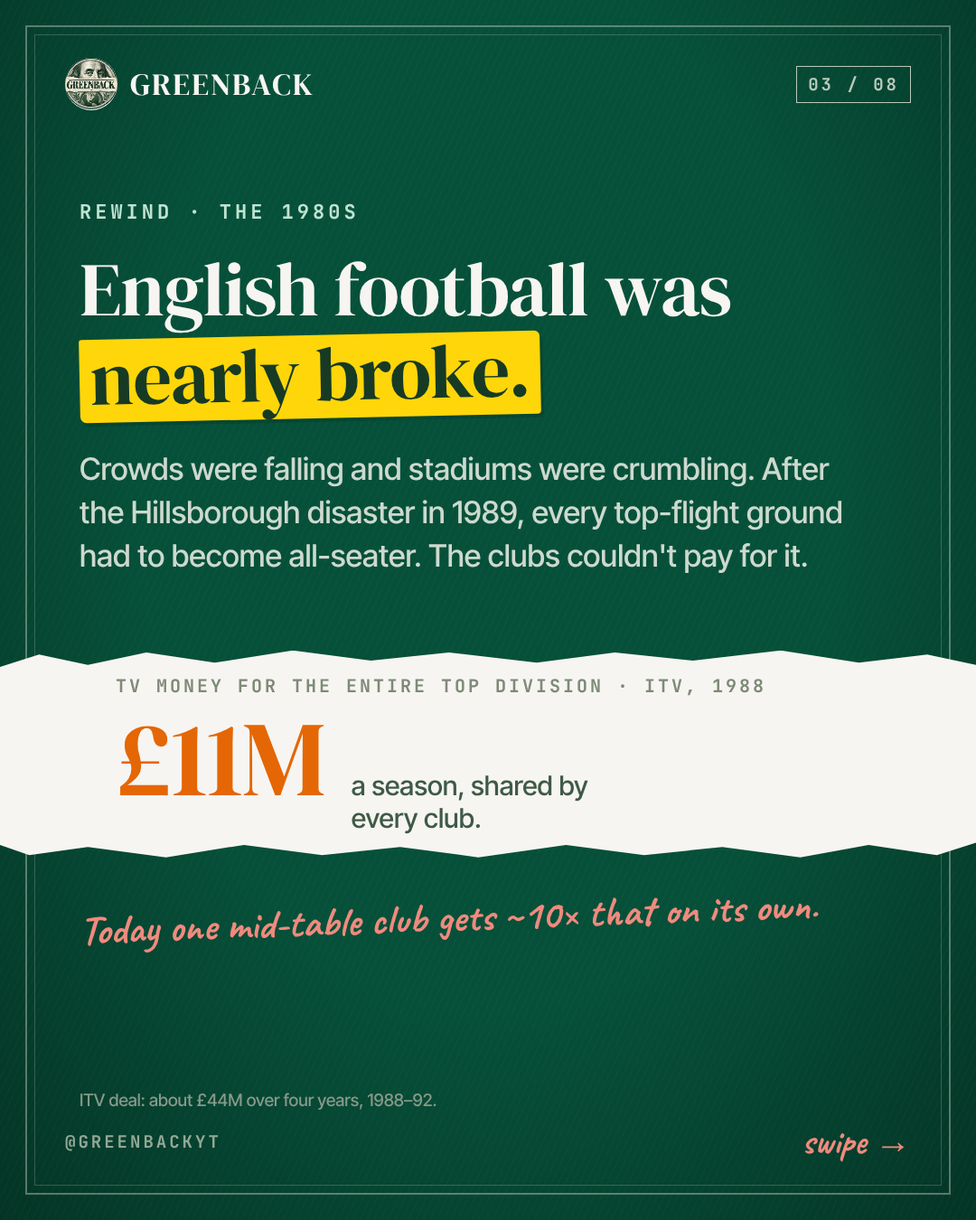
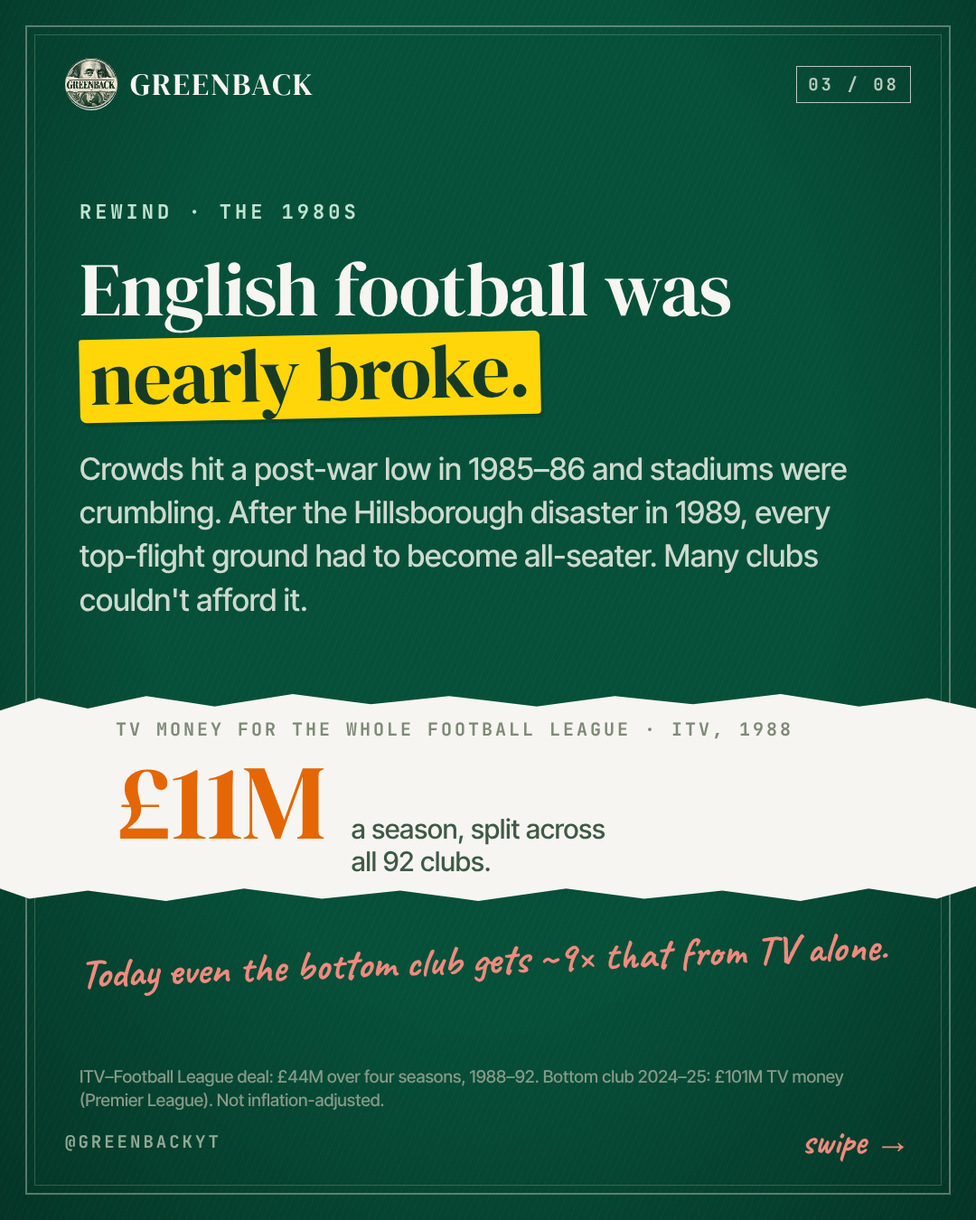
Greenback carousel 01: apply fact-check corrections, add fact-check block to description
Fixes: Sky+BBC joint 1992 deal, ITV £11M covered all 92 clubs, per-season
to-scale chart (x27), 2024-25 central payments, NBC fee marked as reported,
time-zone caveat, source lines on every slide. FACTCHECK.md has all sources.

Claude-Session: https://claude.ai/code/session_013DisWTCKT6cGxKX9bxVydS

Changed region(s): [[0.0, 0.5289, 1.0, 0.8089], [0.0917, 0.3733, 0.8861, 0.4978], [0.0917, 0.8711, 0.8556, 0.9333]]

diff --git a/premier-league-economics/instagram/carousel_01/carousel.html b/premier-league-economics/instagram/carousel_01/carousel.html
@@ -82,6 +82,7 @@ p .hy,b.hy{line-height:1.25;padding:0 .3em;transform:rotate(-.6deg)}
     <div class="rule"><i></i></div>
     <div style="font:400 64px/1.12 DS;font-style:italic;color:#e9e2cc;max-width:880px">So why is it the <span class="or">most valuable</span> football league on Earth?</div>
   </div>
+  <div class="src" style="color:#9FC7B4">14 of 20 clubs made a pre-tax loss in 2024–25 (Financial Times); combined loss £948M (Deloitte, 2026). Revenue £6.8B, highest of any league.</div>
   <div class="foot"><span>@GREENBACKYT</span><span class="swipe">follow the trail →</span></div>
 </section>
 
@@ -100,8 +101,8 @@ p .hy,b.hy{line-height:1.25;padding:0 .3em;transform:rotate(-.6deg)}
     <div style="font:400 80px DS">→</div>
     <div class="note" style="flex:1;text-align:center;background:#065039;color:var(--cream)"><div class="label" style="color:#BFE3D2">SOLD · 2022</div><div class="num" style="margin-top:10px">£2.5B</div></div>
   </div>
-  <div class="pen" style="margin:30px 0 0 500px;transform:rotate(-4deg)"><span class="circ" style="color:var(--orange)">×18</span> &nbsp;in a forced sale!</div>
-  <div class="src">Sources: BBC, Reuters (May 2022). £2.5B purchase price inside a £4.25B total deal. Photo: Marina Lystseva, GFDL 1.2, via Wikimedia Commons.</div>
+  <div class="pen" style="margin:30px 0 0 300px;white-space:nowrap;transform:rotate(-4deg)"><span class="circ" style="color:var(--orange)">×18</span> &nbsp;on paper. He never saw a penny.</div>
+  <div class="src">Sources: BBC (Jul 2003), Sky Sports (May 2022). 2003 price incl. ~£80M debt; 2022: £2.5B for shares in a £4.25B deal. Not inflation-adjusted. The £2.5B remains frozen. Photo: Marina Lystseva, GFDL 1.2, via Wikimedia Commons.</div>
   <div class="foot"><span>@GREENBACKYT</span><span class="swipe">swipe →</span></div>
 </section>
 
@@ -112,16 +113,16 @@ p .hy,b.hy{line-height:1.25;padding:0 .3em;transform:rotate(-.6deg)}
   <div style="padding-top:220px">
     <div class="kicker">Rewind · the 1980s</div>
     <h2 style="margin-top:24px">English football was <span class="hy">nearly broke.</span></h2>
-    <p style="margin-top:28px;max-width:880px">Crowds were falling and stadiums were crumbling. After the Hillsborough disaster in 1989, every top-flight ground had to become all-seater. The clubs couldn't pay for it.</p>
+    <p style="margin-top:28px;max-width:880px">Crowds hit a post-war low in 1985–86 and stadiums were crumbling. After the Hillsborough disaster in 1989, every top-flight ground had to become all-seater. Many clubs couldn't afford it.</p>
   </div>
   <div class="torn" style="margin-top:80px">
-    <div class="label" style="padding-left:88px">TV MONEY FOR THE ENTIRE TOP DIVISION · ITV, 1988</div>
+    <div class="label" style="padding-left:88px">TV MONEY FOR THE WHOLE FOOTBALL LEAGUE · ITV, 1988</div>
     <div style="display:flex;align-items:baseline;gap:30px;padding-left:88px;margin-top:8px">
-      <div class="num" style="color:var(--orange)">£11M</div><div style="font:500 30px IT;color:var(--ink2)">a season, shared by<br>every club.</div>
+      <div class="num" style="color:var(--orange)">£11M</div><div style="font:500 30px IT;color:var(--ink2)">a season, split across<br>all 92 clubs.</div>
     </div>
   </div>
-  <div class="pen" style="margin-top:40px;color:#F08A7E;transform:rotate(-2deg)">Today one mid-table club gets ~10× that on its own.</div>
-  <div class="src">ITV deal: about £44M over four years, 1988–92.</div>
+  <div class="pen" style="margin-top:40px;color:#F08A7E;transform:rotate(-2deg)">Today even the bottom club gets ~9× that from TV alone.</div>
+  <div class="src">ITV–Football League deal: £44M over four seasons, 1988–92. Bottom club 2024–25: £101M TV money (Premier League). Not inflation-adjusted.</div>
   <div class="foot"><span>@GREENBACKYT</span><span class="swipe">swipe →</span></div>
 </section>
 
@@ -131,13 +132,13 @@ p .hy,b.hy{line-height:1.25;padding:0 .3em;transform:rotate(-.6deg)}
   <div class="top"><div class="brand"><img src="greenback_logo.jpg">GREENBACK</div><div class="tag">04 / 08</div></div>
   <div style="padding-top:220px">
     <div class="kicker">1992 · The breakaway</div>
-    <h2 style="margin-top:24px">The big clubs quit and started their own league.</h2>
-    <p style="margin-top:28px;max-width:880px">Same players. Same stadiums. Only one thing changed: <b class="hy">who owned the TV rights.</b></p>
+    <h2 style="margin-top:24px">The whole First Division quit and started its own league.</h2>
+    <p style="margin-top:28px;max-width:880px">Same players. Same stadiums. What changed: <b class="hy">who sold the TV rights</b>, and who kept the money.</p>
   </div>
   <div class="note" style="margin-top:56px;margin-right:330px;transform:rotate(-1deg)">
-    <div class="label">THE BUYER · SKY</div>
-    <div style="font:400 60px/1.08 DS;margin-top:14px">Sky paid <span class="circ">£304M</span> for five years of live games.</div>
-    <div style="font:italic 400 34px/1.25 DS;color:var(--ink2);margin-top:16px">Football went behind a paywall. Fans hated it. Then they subscribed.</div>
+    <div class="label">THE BUYERS · SKY + BBC</div>
+    <div style="font:400 60px/1.08 DS;margin-top:14px">Sky and the BBC paid <span class="circ">£304M</span> for five seasons.</div>
+    <div style="font:italic 400 34px/1.25 DS;color:var(--ink2);margin-top:16px">Sky got the live games. Football went behind a paywall. Fans hated it. Then they subscribed.</div>
   </div>
   <img class="cut" src="cutouts/murdoch.png" style="right:66px;top:700px;width:270px;transform:rotate(-3deg)">
   <div class="cap" style="right:80px;top:1080px;text-align:center;line-height:1.05">↑ Rupert Murdoch<br><span style="font-size:28px">Sky's owner</span></div>
@@ -150,16 +151,16 @@ p .hy,b.hy{line-height:1.25;padding:0 .3em;transform:rotate(-.6deg)}
   <div class="frame"></div>
   <div class="top"><div class="brand"><img src="greenback_logo.jpg">GREENBACK</div><div class="tag">05 / 08</div></div>
   <div style="padding-top:220px">
-    <div class="kicker">The money machine</div>
+    <div class="kicker">The money machine · UK TV rights per season</div>
     <h2 style="margin-top:24px">Every few years, broadcasters bid against each other.</h2>
   </div>
   <div style="position:absolute;left:88px;right:88px;bottom:200px;height:560px;display:flex;align-items:flex-end;gap:34px;border-bottom:2px solid var(--ink)">
-    <div style="width:220px;text-align:center"><div style="font:400 46px DS;margin-bottom:12px">£304M</div><div style="height:30px;background:var(--green)"></div></div>
-    <div style="width:220px;text-align:center"><div style="font:400 46px DS;margin-bottom:12px">£6.7B</div><div style="height:430px;background:#065039;position:relative"><div class="pen" style="position:absolute;left:0;right:0;top:20px;color:var(--yellow);font-size:64px">×22</div></div></div>
-    <div style="flex:1;padding-bottom:40px;display:flex;flex-direction:column;align-items:center;gap:26px"><img class="cut" src="cutouts/gavel.png" style="position:relative!important;width:250px;transform:rotate(-8deg)"><div style="font:italic 400 40px/1.2 DS;color:var(--ink2)">UK rights only. The money from overseas is now even bigger.</div></div>
+    <div style="width:220px;text-align:center"><div style="font:400 46px DS;margin-bottom:12px">£61M</div><div style="height:16px;background:var(--green)"></div></div>
+    <div style="width:220px;text-align:center"><div style="font:400 46px DS;margin-bottom:12px">£1.67B</div><div style="height:430px;background:#065039;position:relative"><div class="pen" style="position:absolute;left:0;right:0;top:20px;color:var(--yellow);font-size:64px">×27</div></div></div>
+    <div style="flex:1;padding-bottom:40px;display:flex;flex-direction:column;align-items:center;gap:26px"><img class="cut" src="cutouts/gavel.png" style="position:relative!important;width:250px;transform:rotate(-8deg)"><div style="font:italic 400 40px/1.2 DS;color:var(--ink2)">UK rights only. Overseas rights now earn even more per season.</div></div>
   </div>
   <div style="position:absolute;left:88px;bottom:160px;display:flex;gap:34px" class="label"><span style="width:220px;text-align:center">1992–97</span><span style="width:220px;text-align:center">2025–29</span></div>
-  <div class="src" style="bottom:110px">UK live rights per cycle (Sky 1992–97: 5 seasons; 2025–29: 4 seasons).</div>
+  <div class="src" style="bottom:110px">UK rights incl. BBC highlights, per season. 1992–97: £304M over 5 seasons (Sky + BBC). 2025–29: £6.7B over 4 (Sky, TNT, BBC). Not inflation-adjusted (≈×12 in real terms).</div>
   <div class="foot"><span>@GREENBACKYT</span><span class="swipe">swipe →</span></div>
 </section>
 
@@ -168,17 +169,19 @@ p .hy,b.hy{line-height:1.25;padding:0 .3em;transform:rotate(-.6deg)}
   <div class="frame"></div>
   <div class="top"><div class="brand"><img src="greenback_logo.jpg">GREENBACK</div><div class="tag">06 / 08</div></div>
   <div style="padding-top:220px">
-    <div class="cut" style="right:100px;top:1010px;width:170px;height:170px;border-radius:50%;background:var(--cream);box-shadow:0 0 0 8px #fff, 10px 14px 0 8px rgba(0,0,0,.22);transform:rotate(5deg);display:grid;place-items:center"><img src="cutouts/nbc.svg" style="width:104px;height:104px"></div>
+    <div class="cut" style="right:90px;top:560px;width:170px;height:170px;border-radius:50%;background:var(--cream);box-shadow:0 0 0 8px #fff, 10px 14px 0 8px rgba(0,0,0,.22);transform:rotate(5deg);display:grid;place-items:center"><img src="cutouts/nbc.svg" style="width:104px;height:104px"></div>
     <div class="kicker">The world is watching</div>
     <h2 style="margin-top:24px">3pm in London is <span class="hy">10am in New York.</span></h2>
-    <p style="margin-top:28px;max-width:880px">For 2022–25, foreign broadcasters paid <span class="or" style="font-weight:700">more</span> for the Premier League than British ones did. That had never happened before.</p>
+    <div class="pen" style="font-size:34px;color:#FF9C8F;margin-top:22px;transform:rotate(-1deg)">(most weeks. Around the clock changes it's 11am)</div>
+    <p style="margin-top:22px;max-width:600px">For 2022–25, foreign broadcasters paid <span class="or" style="font-weight:700">more</span> for the Premier League than British ones did. That had never happened before.</p>
   </div>
   <div class="torn" style="margin-top:90px">
     <div style="padding-left:88px;display:flex;align-items:center;gap:36px">
       <div class="num" style="font-size:150px">$2.7B</div>
-      <div style="font:italic 400 40px/1.2 DS;color:var(--ink2)">NBC's US deal alone,<br>over six years.</div>
+      <div style="font:italic 400 40px/1.2 DS;color:var(--ink2)">NBC's reported US deal,<br>2022–28 (six seasons).</div>
     </div>
   </div>
+  <div class="src">Sources: Inside World Football/AP (Feb 2022); New York Times via SportBusiness (Nov 2021). NBC fee not officially disclosed. Overseas £5.3B vs UK £5.1B, 2022–25.</div>
   <div class="foot"><span>@GREENBACKYT</span><span class="swipe">swipe →</span></div>
 </section>
 
@@ -189,14 +192,14 @@ p .hy,b.hy{line-height:1.25;padding:0 .3em;transform:rotate(-.6deg)}
   <div style="padding-top:220px">
     <div class="kicker">The real secret</div>
     <h2 style="margin-top:24px">It shares the money <em><span class="hy">almost equally.</span></em></h2>
-    <p style="margin-top:28px;max-width:880px">All 20 clubs sell their TV rights as one package. So even the worst team gets rich, and every match stays worth watching.</p>
+    <p style="margin-top:28px;max-width:880px">All 20 clubs sell their TV rights together. So even the worst team gets rich, and every match stays worth watching.</p>
   </div>
   <div style="display:flex;gap:30px;margin-top:70px">
-    <div class="note" style="flex:1"><div class="label">CHAMPIONS</div><div class="num" style="color:var(--green);margin-top:10px">£175M</div></div>
-    <div class="note" style="flex:1"><div class="label">FINISHED LAST</div><div class="num" style="margin-top:10px">£110M</div></div>
+    <div class="note" style="flex:1"><div class="label">CHAMPIONS · LIVERPOOL</div><div class="num" style="color:var(--green);margin-top:10px">£175M</div></div>
+    <div class="note" style="flex:1"><div class="label">LAST · SOUTHAMPTON</div><div class="num" style="margin-top:10px">£109M</div></div>
   </div>
-  <div class="pen" style="margin:34px 0 0 380px;transform:rotate(-3deg)">↑ last place still banks <span class="or">£110M</span></div>
-  <div class="src">Approximate central payments from the league, 2023–24 season.</div>
+  <div class="pen" style="margin:34px 0 0 380px;transform:rotate(-3deg)">↑ last place still banks <span class="or">£109M</span></div>
+  <div class="src">Central payments from the league, 2024–25: Liverpool £174.9M, Southampton £109.2M (Premier League).</div>
   <div class="foot"><span>@GREENBACKYT</span><span class="swipe">swipe →</span></div>
 </section>
 

diff --git a/premier-league-economics/instagram/carousel_01/FACTCHECK.md b/premier-league-economics/instagram/carousel_01/FACTCHECK.md
@@ -1,0 +1,133 @@
+# Fact check: carousel 01, "How the Premier League took over the world"
+
+Checked 1 November 2026 by Greenback's independent fact-checker, against all eight slide PNGs, `carousel.html` and `CAPTION.md`. The slide images match the HTML text exactly. I did not use the episode script or the playbook.
+
+**Summary:** 35 claims checked: 14 ✅, 14 🟡, 7 ❌, 0 ⚪. **Do not publish as is.** The seven ❌ items come down to six errors, all of which must be fixed:
+1. slide 3 and the caption say £11M was for the top division, but it covered the whole Football League;
+2. slide 3's "~10× a mid-table club" uses the wrong base and the wrong multiple;
+3. slide 4 says Sky alone paid £304M, but it was a joint Sky and BBC deal;
+4. slide 5's bar chart is not drawn to scale;
+5. the caption calls 2025–29 "last cycle";
+6. the caption says "biggest money machine in sport", but the NFL earns far more.
+
+Inflation figures use the ONS CPI index (D7BT, release of 21 Oct 2026). The annual averages are 1988 = 49.6, 1992 = 62.6, 2003 = 75.5, 2022 = 121.7 and 2025 = 138.4.
+
+---
+
+## 1. Claims table
+
+| # | Slide | Claim as written | Verdict | Correct figure / context | Source |
+|---|---|---|---|---|---|
+| 1 | 1 + caption | "Most Premier League clubs lose money." | ✅ | In 2024–25, the latest season with published accounts, **14 of 20 clubs made a pre-tax loss**. The aggregate pre-tax loss was **£948m**, up from £135m in 2023–24. Only 8 clubs made an *operating* profit. | Deloitte, *Annual Review of Football Finance 2026: Premier League clubs*, 8 Jul 2026, https://www.deloitte.com/uk/en/services/consulting-financial/research/annual-review-of-football-finance-premier-league-clubs.html. The 14-of-20 count is from the Financial Times (Apr 2026), as reported by SGI Europe, https://www.sgieurope.com/financial-results/premier-league-losses-surge/120854.article |
+| 2 | 1 | "the most valuable football league on Earth" / caption: "richest league on Earth" | ✅ | By revenue: PL £6.8bn (~€7.9bn) in 2024–25, against Bundesliga €4.3bn and LaLiga €4.1bn. "Richest" (the caption) is the more exact word. | Deloitte, ARFF 2026, Premier League clubs page and Europe's premier leagues page, 8 Jul 2026, https://www.deloitte.com/uk/en/services/consulting/research/annual-review-of-football-finance-europe-premier-league.html |
+| 3 | 2 | "Exhibit A · March 2022: The UK government froze Chelsea FC. Its owner was sanctioned after Russia invaded Ukraine." | ✅ | Abramovich was sanctioned on 10 Mar 2022, two weeks after the invasion of 24 Feb 2022. The club then ran under a special government licence. | Sky Sports / AP coverage, Mar–May 2022, e.g. https://www.skysports.com/football/news/11668/12620985/chelsea-takeover-todd-boehly-completes-4-25bn-takeover-as-roman-abramovich-era-ends |
+| 4 | 2 | "No tickets, no shirts, no transfers. It had to be sold, fast." | ✅ | The licence banned new ticket sales, merchandise sales, transfers and new contracts, and expired on 31 May 2022. The sale was agreed on 7 May and completed on 30 May 2022. | Sky Sports, 30 May 2022 (URL above); AP, 30 May 2022, https://krdo.com/sports/ap-national-sports/2022/05/30/abramovich-completes-sale-of-chelsea-to-end-19-year-tenure/ |
+| 5 | 2 | "Bought · 2003: £140M" | 🟡 | BBC, 2 Jul 2003: a deal "worth £140m". That figure includes roughly £80m of debt Abramovich took on; he paid about £60m for the shares. So it is not a like-for-like comparison with the 2022 share price. | BBC News, "Russian tycoon buys Chelsea", 2 Jul 2003 (archived at news.bbc.co.uk/1/hi/business/3036838.stm) |
+| 6 | 2 | "Sold · 2022: £2.5B" (src: "£2.5B purchase price inside a £4.25B total deal") | ✅ | £2.5bn for the shares, plus £1.75bn of committed investment, made £4.25bn in total. Completed 30 May 2022. | Sky Sports, 30 May 2022 (URL above) |
+| 7 | 2 | "×18 in a forced sale!" | 🟡 | The arithmetic is right (2,500 ÷ 140 = 17.9), but the comparison flatters the story. (a) It is nominal: £140m in 2003 is about £226m in 2022 money, so the real multiple is about ×11. (b) The £140m included debt. (c) Abramovich had also put about £1.5bn of loans into the club, which were written off. (d) He received none of the £2.5bn: it is still frozen in a UK account, and in Mar 2026 the government said it was preparing to sue over it. "×18" reads as an 18-fold profit, and he did not make one. | ONS CPI; Sky Sports, 30 May 2022; Insider Sport, "Abramovich faces UK lawsuit over frozen Chelsea sale proceeds", 18 Mar 2026, https://insidersport.com/2026/03/18/uk-sue-abramovich-chelsea-sale/ |
+| 8 | 3 | "English football was nearly broke." | 🟡 | This is a fair characterisation, but it is rhetorical. Keep it as framing, not as a statistic. | n/a |
+| 9 | 3 | "Crowds were falling" | 🟡 | Football League crowds hit a post-war low of about 16.5m in 1985–86, then recovered after that. By 1989 they were no longer falling. | Irish Times, "Attendances up"; contemporaneous League figures (aggregate 16.49m in 1985–86) |
+| 10 | 3 | "After the Hillsborough disaster in 1989, every top-flight ground had to become all-seater." | ✅ | The Taylor Report (Jan 1990) required all-seater grounds in the top **two** divisions by August 1994. The slide is correct for the top flight. | Hansard, HC Deb 29 Jan 1990 vol 166 cc19–36; HC Deb 2 May 1996 (written answer), api.parliament.uk |
+| 11 | 3 | "The clubs couldn't pay for it." | 🟡 | This overstates it: conversions were part-funded by Football Trust grants. Soften to "Many clubs couldn't afford it." | Hansard, HC Deb 9 Nov 1992 vol 213 (football stadiums) |
+| 12 | 3 | "TV money for the entire top division · ITV, 1988: £11M a season, shared by every club." | ❌ | ITV's deal was **£44m over four seasons (1988–92) with the Football League**, which then had **92 clubs in four divisions**. The £11m a season was for the **whole League**, not the top division. The First Division took most of it: a three-quarters share is widely reported, but I found no paper-of-record source for the exact split, so don't print a percentage. | Scelles, Dermit-Richard & Haynes, "A comparative analysis of the evolution of TV rights in English and French men's football first divisions", *Soccer & Society*, 25 Oct 2019 (Univ. of Stirling accepted manuscript), https://dspace.stir.ac.uk/bitstream/1893/30322/1/TVrights-EnglandFrance-V2.pdf; *The Times*, Peter Ball, "ITV's monopoly threatened by Premier League", 1 Oct 1991 |
+| 13 | 3 | src: "ITV deal: about £44M over four years, 1988–92." | ✅ | £44m, 1988–92. | As #12 |
+| 14 | 3 | "Today one mid-table club gets ~10× that on its own." | ❌ | Both the base and the multiple are wrong. Against the correct base (£11m a season for the whole League), the 10th-placed club in 2024–25 (Brentford) got £138.9m in total central payments, or £131.0m from TV alone excluding £7.9m of central commercial money. That is **about 12× from TV**. The bottom club (Southampton) got **£101.3m from TV alone (about 9×)**. All figures are nominal: £11m in 1988 is about £31m in 2025 money. | Premier League, "Premier League central payments to clubs 2024/25", 1 Jul 2025, https://www.premierleague.com/en/news/4325409 (payments table image); ONS CPI |
+| 15 | 4 | "1992 · The big clubs quit and started their own league." | 🟡 | **All 22 First Division clubs** resigned from the Football League to form the FA Premier League, not just "the big clubs". The Big Five led the push. | *The Times*, Peter Ball, "BBC and BSkyB win Premier League deal", 19 May 1992; Scelles et al., 2019 |
+| 16 | 4 | "Same players. Same stadiums. Only one thing changed: who owned the TV rights." | 🟡 | This is rhetoric. More precisely, the top-flight clubs now sold their rights themselves and kept the money instead of sharing it with 70 Football League clubs. Suggested: "who sold the TV rights, and who kept the money." | Scelles et al., 2019 |
+| 17 | 4 | "The buyer · Sky. Sky paid £304M for five years of live games." | ❌ | £304m was the **joint BSkyB and BBC** package for five seasons (1992–97). It covered Sky's live games **and** the BBC's *Match of the Day* highlights. Sky's live rights were about **£191.5m**: roughly £35m a season for 60 live games, rising to £40m in year five. | *The Times*, "BBC and BSkyB win Premier League deal", 19 May 1992; Reuters wire, 19–20 May 1992 ("BSkyB and the BBC won a joint £304 million bid"); Scelles et al., *Soccer & Society* 2019 (£191.5m for 1992–97); *Sunday Times*, Miller & Bose, "Snatch of the Day", 24 May 1992 |
+| 18 | 4 | "Football went behind a paywall. Fans hated it. Then they subscribed." | ✅ | Live top-flight league football moved from free-to-air ITV to subscription satellite in 1992. Sky went from a £47m loss in 1992 to a £67m profit a year later. "Fans hated it" is fair editorial shorthand. | Scelles et al., 2019, citing Conn (2012) |
+| 19 | 5 | "Every few years, broadcasters bid against each other." | ✅ | Rights are tendered every 3–4 seasons. (The 2022–25 UK rights were rolled over without a tender because of Covid; this is a minor exception.) | Swiss Ramble, "Premier League TV deal 2025-29", Dec 2023, https://swissramble.substack.com/p/premier-league-tv-deal-2025-29 |
+| 20 | 5 | Bar: "£304M · 1992–97" | 🟡 | The figure is right, but it is Sky's and the BBC's together (see #17), and it covers live games plus highlights. | As #17 |
+| 21 | 5 | Bar: "£6.7B · 2025–29" | ✅ | £6.7bn for four seasons (2025–26 to 2028–29), from Sky, TNT Sports and the BBC. It **includes** the BBC highlights, about £300m (£75m a year). Live rights alone are about £6.4bn. | Irish Times, 4 Dec 2023, https://www.irishtimes.com/sport/soccer/2023/12/04/premier-league-agrees-new-67bn-tv-rights-deal-with-sky-and-tnt-sports; Swiss Ramble, Dec 2023 |
+| 22 | 5 | "×22" and the bar heights | ❌ | (a) The ratio compares a **5-season** cycle with a **4-season** cycle. Per season it is £60.8m vs £1,675m = **×27.5**. (b) It is nominal: in 2025 prices the 1992–97 figure is about £134m a season, so the real growth is **about ×12.5**. (c) **The chart is not to scale.** The bars are 30px and 430px, which draws a ×14.3 ratio. At ×22 the short bar should be about 20px; at ×27.5 per season, about 16px. (d) The source line says "UK *live* rights", but both figures include BBC highlights. | Arithmetic from #17 and #21; ONS CPI; carousel.html lines 157–158 |
+| 23 | 5 | "UK rights only. The money from overseas is now even bigger." | 🟡 | This is true **per season** but not per cycle. Overseas rights for 2025–28 were reported at **about £6.5bn over 3 seasons (£2.16bn a year)**, against £6.7bn over 4 seasons (£1.675bn a year) for the UK. Note that the overseas figure is reported, not official. | Nick Harris, Sporting Intelligence, "Overseas rights continue to drive the financial rise and rise of the Premier League", 27 Nov 2024, https://sportingintelligence832.substack.com/p/overseas-rights-continue-to-drive |
+| 24 | 5 | Labels "1992–97" and "2025–29" | ✅ | The labels cover 1992–93 to 1996–97 and 2025–26 to 2028–29. | As #17 and #21 |
+| 25 | 6 | "3pm in London is 10am in New York." | 🟡 | The gap is 5 hours for most of the season but **4 hours** in the weeks between the US and UK clock changes. That was 26 Oct–1 Nov 2025 and 8–28 Mar 2026; in 2026–27 it is 25–31 Oct 2026 (just ended) and 14–27 Mar 2027. In those weeks, 3pm London = **11am** New York. | IANA tz database (Europe/London, America/New_York), computed 1 Nov 2026 |
+| 26 | 6 | "For 2022–25, foreign broadcasters paid more for the Premier League than British ones did. That had never happened before." | ✅ | International rights for 2022–25 were £5.3bn, against £5.1bn domestic: the first time in the league's history. These were the figures the league briefed to clubs in Feb 2022, so they were projected at the time. | Inside World Football, "Premier League TV money jumps past £10bn as international revenues exceed domestic", 11 Feb 2022, https://www.insideworldfootball.com/2022/02/11/premier-league-tv-money-jumps-past-10bn-international-revenues-exceed-domestic/; AP, Feb 2022 |
+| 27 | 6 | "$2.7B: NBC's US deal alone, over six years." | 🟡 | The length is right: six seasons, 2022–23 to 2027–28. The fee was **not disclosed**: the *New York Times* reported $2.7bn, Variety $2.5–2.7bn and Sports Business Journal $2.6bn. Label it "reported". As of 1 Nov 2026 I found no announced post-2028 US deal. | SportBusiness, "NBC Sports retains US Premier League rights in record six-year, $2.7bn deal", 18 Nov 2021, https://www.sportbusiness.com/news/nbc-sports-retains-us-premier-league-rights-in-record-six-year-2-7bn-deal; NBC Sports press release, 18 Nov 2021; SVG, 19 Nov 2021 |
+| 28 | 7 | "It shares the money almost equally." | ✅ | In 2023–24 the top club got 1.60× the bottom club's total (£175.9m vs £109.7m); in 2024–25 it was 1.60× (£174.9m vs £109.2m). The UK and international equal shares are identical for all 20 clubs. | Premier League payments tables 2023/24 and 2024/25 (URLs at #29 and #14) |
+| 29 | 7 | "All 20 clubs sell their TV rights as one package." | 🟡 | The rights are sold **collectively**, but in **several packages** to several broadcasters (five live UK packages in 2025–29, plus highlights and overseas deals). Use "together", not "as one package". | Irish Times, 4 Dec 2023; Premier League, "Premier League central payments to clubs 2023/24", 17 Jun 2024, https://premierleague.com/news/4037205 |
+| 30 | 7 | "Champions: £175M" (2023–24) | 🟡 | Man City got **£175.9m**, so this rounds down, which is fine. But a newer season supersedes it: 2024–25 champions Liverpool got **£174.9m**. | Premier League 2023/24 payments table, 17 Jun 2024 (above); Premier League 2024/25 payments table, 1 Jul 2025 (above) |
+| 31 | 7 | "Finished last: £110M" / "last place still banks £110M" (2023–24) | 🟡 | Sheffield United got **£109.7m**. Rounding up to £110M flatters the story slightly. In 2024–25, Southampton (last) got **£109.2m**. | As #30 |
+| 32 | 8 | "The Premier League wasn't a football idea. It was a TV idea." | ✅ | This is opinion, and it is defensible: TV money drove the 1988 breakaway threat, ITV's Greg Dyke met the Big Five before the 1992 split, and the BSkyB/BBC deal financed the new league. Keep it as opinion. | Scelles et al., 2019; *The Times*, 1 Oct 1991 |
+| 33 | caption | "In 1988 the whole top division got £11M a season from TV." | ❌ | £11m a season was for the whole **Football League** (92 clubs), not the top division. | As #12 |
+| 33b | caption | "Last cycle, UK rights alone hit £6.7B." | ❌ | £6.7bn is the **current** cycle (2025–29, which began Aug 2025), not the last one. The last cycle (2022–25) was about £5.1bn. | As #21 and #26 |
+| 33c | caption | "…the biggest money machine in sport." | ❌ | The NFL earned about $23bn in its last full fiscal year (≈£17bn), against the PL's £6.8bn. The PL is the biggest in **football**. | Sportico, "NFL revenue $25 billion Roger Goodell goal", 2026, https://www.sportico.com/leagues/football/2026/nfl-revenue-25-billion-roger-goodell-goal-1234883164/; Deloitte ARFF 2026 |
+
+Not checked: the photo credits and licences (slides 2 and 4, CAPTION.md). These are attribution, not factual claims; confirm them on the Wikimedia file pages before publishing.
+
+---
+
+## 2. Replacement copy (exact, slide-length)
+
+### Slide 2: Chelsea (🟡 #5, #7)
+- Keep the cards: **BOUGHT · 2003 £140M** → **SOLD · 2022 £2.5B**.
+- Pen line, replacing "×18 in a forced sale!": **×18 on paper.** He never saw a penny of it.
+- Source line, replacing the current one: **Sources: BBC (Jul 2003), Sky Sports (May 2022). 2003 price incl. ~£80M debt; 2022: £2.5B for shares in a £4.25B deal. Nominal (≈×11 after inflation). Abramovich had also lent the club ~£1.5B, written off; the £2.5B remains frozen (Oct 2026). Photo: Marina Lystseva, GFDL 1.2, via Wikimedia Commons.**
+
+### Slide 3: the 1980s (🟡 #9, #11; ❌ #12, #14)
+- Body: **Crowds hit a post-war low in 1985–86 and stadiums were crumbling. After the Hillsborough disaster in 1989, every top-flight ground had to become all-seater. Many clubs couldn't afford it.**
+- Torn-paper label: **TV MONEY FOR THE WHOLE FOOTBALL LEAGUE · ITV, 1988**
+- Next to £11M: **a season, split across all 92 clubs.**
+- Pen line: **Today even the bottom club gets ~9× that from TV alone.**
+- Source line: **ITV–Football League deal: £44M over four seasons, 1988–92; the top division took most of it. Bottom club 2024–25: £101M TV money (Premier League). Not adjusted for inflation.**
+
+### Slide 4: the breakaway (🟡 #15, #16; ❌ #17)
+- Headline: **The whole First Division quit and started its own league.**
+- Body: **Same players. Same stadiums. What changed: <hy>who sold the TV rights, and who kept the money.</hy>**
+- Note label: **THE BUYERS · SKY + BBC**
+- Note headline: **Sky and the BBC paid <circ>£304M</circ> for five seasons.**
+- Note sub-line: **Sky got the live games. Football went behind a paywall. Fans hated it. Then they subscribed.**
+- Add to the photo-credit line: **Source: The Times, May 1992.**
+
+### Slide 5: the auction chart (🟡 #20, #23; ❌ #22)
+**Recommended option (per season, honest scale):**
+- Bar 1 label: **£61M** (1992–97), bar height **16px**
+- Bar 2 label: **£1.67B** (2025–29), bar height **430px**
+- Pen inside the tall bar: **×27**
+- Axis labels: **1992–97 · A SEASON** / **2025–29 · A SEASON**
+- Gavel note: **UK rights only. Overseas rights now earn even more per season.**
+- Source line: **UK rights incl. BBC highlights, per season. 1992–97: £304M over 5 seasons (Sky + BBC). 2025–29: £6.7B over 4 (Sky, TNT, BBC). Nominal; ≈×12 after inflation.**
+
+**Alternative (keep per cycle):** keep "£304M", "£6.7B" and "×22", but set the short bar to **20px** (430 ÷ 22 = 19.5). Use the source line **UK rights incl. BBC highlights, per cycle: 1992–97 = 5 seasons, 2025–29 = 4. Nominal; ≈×10 after inflation.** In `carousel.html` line 157, change `height:30px` to `height:20px` (or `16px` for the per-season option).
+
+### Slide 6: the world (🟡 #25, #27)
+- Headline: **3pm in London is <hy>10am in New York.</hy>** with a small line under it, in the src style: **Most weeks. Around the clock changes it's 11am.**
+  - Shorter alternative headline: **3pm in London is <hy>breakfast in New York.</hy>**
+- Body: unchanged (✅).
+- Torn paper: **$2.7B** · **NBC's reported US deal alone, 2022–28 (six seasons).**
+- Add src line: **Sources: Inside World Football/AP (Feb 2022); New York Times via SportBusiness (Nov 2021). NBC fee not officially disclosed.**
+
+### Slide 7: the real secret (🟡 #29, #30, #31). Recommended: update to the latest season
+- Body: **All 20 clubs sell their TV rights together. So even the worst team gets rich, and every match stays worth watching.**
+- Cards: **CHAMPIONS £175M** / **FINISHED LAST £109M**
+- Pen: **↑ last place still banks <or>£109M</or>**
+- Source line: **Central payments from the league, 2024–25: Liverpool £174.9M, Southampton £109.2M (Premier League).**
+- If you keep 2023–24 instead: cards **£175.9M** / **£109.7M**, pen **"last place still banks £109.7M"**, source line **Central payments from the league, 2023–24: Man City £175.9M, Sheffield Utd £109.7M (Premier League).**
+
+### Caption (❌ #33, #33b, #33c)
+> Most Premier League clubs lose money. So why is it the richest league on Earth? 🧾
+>
+> In 1988 ITV paid £11M a season for the whole Football League, all 92 clubs. This cycle, UK rights alone are worth £6.7B. Here's how a league that "loses money" turned into the biggest money machine in football. Swipe →
+
+---
+
+## 3. "Fact check" block for the post description (ready to paste, 1,031 characters)
+
+```
+Fact check
+✓ 14 of 20 PL clubs made a pre-tax loss in 2024–25: Financial Times; Deloitte Annual Review of Football Finance (2026)
+✓ PL revenue £6.8B, the most of any football league: Deloitte (2026)
+✓ Chelsea bought for £140M incl. debt, sold for £2.5B in a £4.25B deal: BBC (2003), Sky Sports (2022)
+✓ ITV paid £44M for Football League rights, 1988–92: The Times (1991); Soccer & Society (2019)
+✓ Sky and the BBC won 1992–97 rights for £304M: The Times (1992)
+✓ UK rights 2025–29 £6.7B incl. BBC highlights: Premier League (2023); Swiss Ramble (2023)
+✓ Overseas rights beat UK rights for the first time in 2022–25 (£5.3B vs £5.1B): Inside World Football (2022)
+✓ NBC's 2022–28 US deal reported at $2.7B: New York Times via SportBusiness (2021)
+✓ 2024–25 central payments: Liverpool £174.9M, Southampton £109.2M: Premier League (2025)
+✓ 3pm London = 10am New York most weeks (11am around clock changes): IANA time zones (2026)
+✓ Per-season and inflation maths: ONS CPI (2026)
+Spotted an error? Comment and we'll correct it, pinned.
+```
+
+The block assumes the recommended fixes are applied: the 2024–25 slide 7 figures and the per-season chart. If slide 7 keeps the 2023–24 figures, change that line to: "✓ 2023–24 central payments: Man City £175.9M, Sheffield Utd £109.7M: Premier League (2024)".

diff --git a/premier-league-economics/instagram/carousel_01/CAPTION.md b/premier-league-economics/instagram/carousel_01/CAPTION.md
@@ -1,20 +1,41 @@
 # Greenback carousel 01: How the Premier League took over the world
 
-**Caption**
+## Description (paste into Instagram)
 
-Most Premier League clubs lose money. So why is it the richest league on Earth? 🧾
+```
+Most Premier League clubs lose money. So why is it the richest football league on Earth? 🧾
 
-In 1988 the whole top division got £11M a season from TV. Last cycle, UK rights alone hit £6.7B. Here's how a league that "loses money" turned into the biggest money machine in sport. Swipe →
+In 1988 ITV paid £11M a season for the whole Football League, all 92 clubs. This cycle, UK rights alone are worth £6.7B. Here's how a league that "loses money" turned into the biggest money machine in football. Swipe →
 
 Money leaves a trail. Greenback follows it.
 Full episode on YouTube: link in bio.
 
-#PremierLeague #FootballBusiness #SportsBusiness #Chelsea #MoneyExplained #Economics #FootballFinance #Explained #Greenback
+Fact check
+✓ 14 of 20 PL clubs made a pre-tax loss in 2024–25: Financial Times; Deloitte Annual Review of Football Finance (2026)
+✓ PL revenue £6.8B, the most of any football league: Deloitte (2026)
+✓ Chelsea bought for £140M incl. debt, sold for £2.5B in a £4.25B deal: BBC (2003), Sky Sports (2022)
+✓ ITV paid £44M for Football League rights, 1988–92: The Times (1991); Soccer & Society (2019)
+✓ Sky and the BBC won 1992–97 rights for £304M: The Times (1992)
+✓ UK rights 2025–29 £6.7B incl. BBC highlights: Premier League (2023); Swiss Ramble (2023)
+✓ Overseas rights beat UK rights for the first time in 2022–25 (£5.3B vs £5.1B): Inside World Football (2022)
+✓ NBC's 2022–28 US deal reported at $2.7B: New York Times via SportBusiness (2021)
+✓ 2024–25 central payments: Liverpool £174.9M, Southampton £109.2M: Premier League (2025)
+✓ 3pm London = 10am New York most weeks (11am around clock changes): IANA time zones (2026)
+✓ Per-season and inflation maths: ONS CPI (2026)
+Spotted an error? Comment and we'll correct it, pinned.
 
-**First comment (to drive replies):** Which club do you think is most overpriced right now? 👇
+Photos: Roman Abramovich by Marina Lystseva (GFDL 1.2); Rupert Murdoch by Eva Rinaldi (CC BY-SA 2.0); gavel via Wikimedia Commons. Logos belong to their owners, used for editorial reference.
 
-## Photo credits (required by the licences, keep them on the slides)
-- Roman Abramovich: Marina Lystseva, GFDL 1.2, via Wikimedia Commons (slide 2)
-- Rupert Murdoch: Eva Rinaldi, CC BY-SA 2.0, via Wikimedia Commons (slide 4)
+#PremierLeague #FootballBusiness #MoneyExplained #Economics #Greenback
+```
 
-Cutouts made with rembg + BiRefNet (MIT licence), duotone banknote-green, white paper edge.
+Instagram allows at most **5 hashtags** per post (since Dec 2025).
+
+## First comment (pin it)
+Which club do you think is the most overpriced right now? 👇
+
+## Posting
+Wednesday 4 Nov 2026, 13:30 GMT (19:00 IST, 08:30 EST). See ../PLAYBOOK.md.
+
+## Verification
+Every claim was checked by the fact-checker agent: see FACTCHECK.md for verdicts, sources and URLs.
